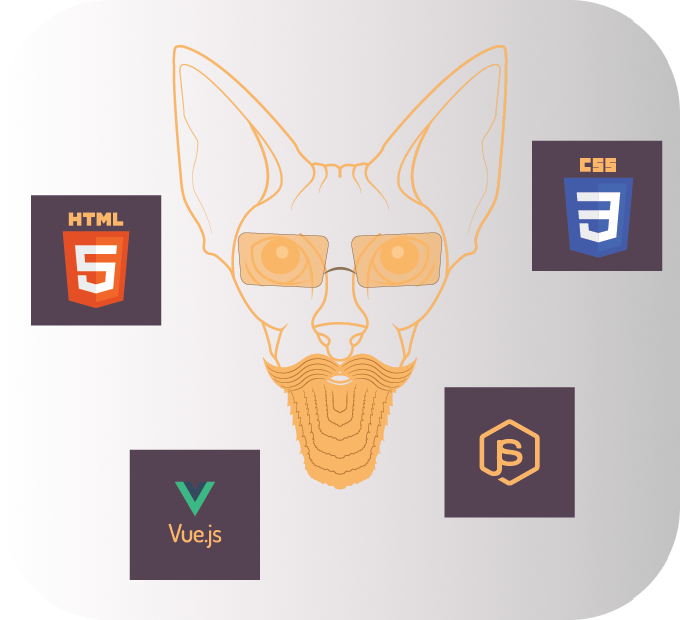
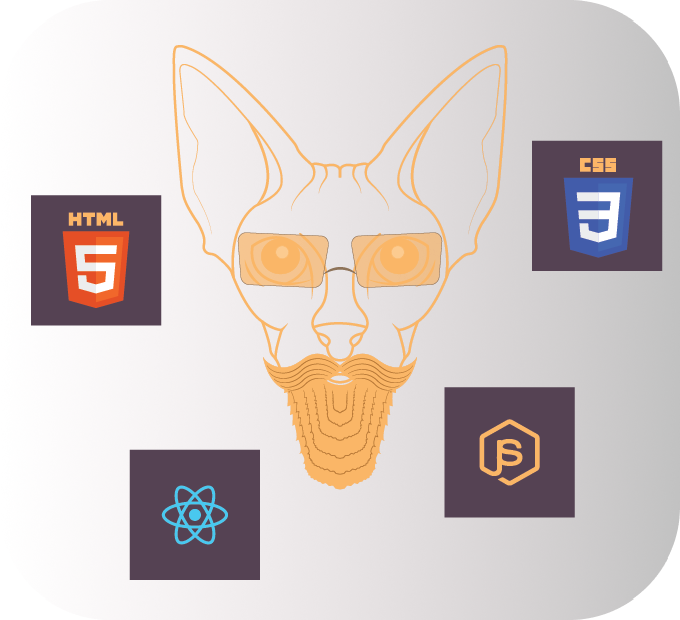
React change

Changed region(s): [[0.2471, 0.7661, 0.3397, 0.8887]]

diff --git a/index.html b/index.html
@@ -4,6 +4,11 @@
     <meta charset="UTF-8" />
     <meta http-equiv="X-UA-Compatible" content="IE=edge" />
     <meta name="viewport" content="width=device-width, initial-scale=1.0" />
+    <meta property="og:title" content="Sphynxo">
+    <meta property="og:description" content="Irakli Zhordania's Personal Portfolio">
+    <meta property="og:image" content="img/poster-sphynxo.png">
+    <meta property="og:url" content="www.sphynxo.io">
+
 
     <link rel="preconnect" href="https://fonts.googleapis.com" />
     <link rel="preconnect" href="https://fonts.gstatic.com" crossorigin />
@@ -35,7 +40,7 @@
     <link rel="stylesheet" href="url-to-cdn/splide.min.css">
     <title>
       Irakli Zhordania | Fornt-End Developer, Html, CSS, TailWind CSS,
-      JavaScript, TypeScript, Vue.JS
+      JavaScript, TypeScript, React.JS
     </title>
   </head>
   <body>
@@ -136,7 +141,7 @@
             <p class="info-txt">
               Welcome to my web development service! I specialize in building
               modern and responsive websites using HTML5, CSS3, Tailwind CSS,
-              TypeScript, JavaScript, and Vue.js. From visually appealing
+              TypeScript, JavaScript, and React.js. From visually appealing
               designs to seamless interactions, I create engaging websites that
               meet your unique needs. Let's work together to bring your web
               development project to life! Contact me today to discuss your
@@ -159,7 +164,7 @@
               with a variety of software systems, including MS Windows OS and MS
               Office. I hold a Bachelor's degree in Computer Engineering and
               have developed a strong skill set in HTML, CSS, JavaScript, and
-              currently learning Vue.js. In addition to my technical abilities,
+              currently learning React.js. In addition to my technical abilities,
               I also have an eye for design and a knack for creating visually
               appealing web and application designs using tools such as
               Photoshop and Illustrator. I'm always excited to learn new skills

diff --git a/JS/script.js b/JS/script.js
@@ -33,7 +33,7 @@ menuBtn.addEventListener("click", function () {
 
 servicesWeb.addEventListener("click", function () {
   infoTxt.textContent =
-    "Welcome to my web development service! I specialize in building modern and responsive websites using HTML5, CSS3, Tailwind CSS, TypeScript, JavaScript, and Vue.js. From visually appealing designs to seamless interactions, I create engaging websites that meet your unique needs. Let's work together to bring your web development project to life! Contact me today to discuss your requirements.";
+    "Welcome to my web development service! I specialize in building modern and responsive websites using HTML5, CSS3, Tailwind CSS, TypeScript, JavaScript, and React.js. From visually appealing designs to seamless interactions, I create engaging websites that meet your unique needs. Let's work together to bring your web development project to life! Contact me today to discuss your requirements.";
   servicesWeb.classList.add("info-active");
   servicesUi.classList.remove("info-active");
   servicesDesign.classList.remove("info-active");
